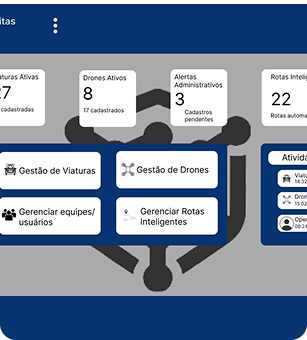
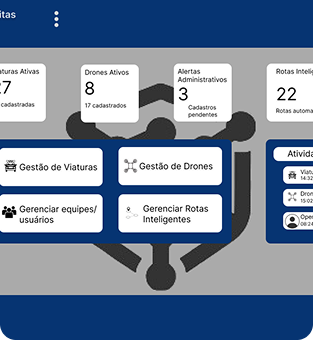
feat: atualiza estilos e semântica na seção Prototipo, incluindo melhorias visuais e ajustes de texto

diff --git a/style.css b/style.css
@@ -273,12 +273,25 @@ strong {
 
 .box-prototipo {
     background-color: var(--blue2);
-    border-radius: 8px;
+    border-radius: 16px;
+}
+ #strong-prototipo-subtitulo {
+    color: var(--white);
+ }
+
+.box-prototipo img {
+    border-top: 1px solid var(--blue6);
 }
 
 .titulo-box-prototipo {
     margin-top: 15px;
     font-weight: bold;
+    color: var(--blue6);
+
+}
+
+.texto-box-prototipo {
+    color: var(--blue5);
 }
 
 /* impacto */ 
@@ -355,7 +368,7 @@ strong {
     align-items: center;
     justify-content: center;
     padding: 0;
-    color: rgb(255, 255, 255);
+    color: var(--black);
 }
 
 .Blog article {
@@ -371,24 +384,16 @@ strong {
     text-align: center;
     width: 372px;
     height: 330px;
-    background-color: rgb(155, 201, 209);
-    font-size: 16px;
-    padding: 5px;
+    background-color: var(--blue1);
+    font-size: 20px;
+    padding: 20px;
     border-radius: 8px;
-    margin: 1rem;
+    margin-top: 0.5rem;
+    margin-bottom: 0.5rem;
 }
 
-#ver-blog {
-    display: flex;
-    flex-direction: column;
-    align-items: center;
-    margin-top: 40px;
-    gap: 10px;
-}
-
-#botao-ver-blog {
-    color: black;
-    border-color: black;
+.secao-blog strong {
+    color: var(--blue5);
 }
 
 .dynamic-blog-container {
@@ -404,6 +409,7 @@ strong {
 .posts-area {
     width: 100%;
     text-align: center;
+    color: var(--black);
 }
 
 .blog-grid {
@@ -416,7 +422,7 @@ strong {
 
 /* card do post */
 .post-card {
-    background-color: var(--dark6);
+    background-color: var(--blue1);
     padding: 15px;
     width: 300px;
     text-align: left;
@@ -424,19 +430,22 @@ strong {
     flex-direction: column;
     justify-content: space-between;
     border-radius: 0px; 
-    color: var(--white);
+    color: var(--black);
+    border: 1px solid;
+    border-radius: 8px;
+    border-color: var(--black);
 }
 
 .post-header h4 {
-    color: var(--cyan);
     font-size: 1.2rem;
     margin-bottom: 5px;
     font-weight: bold;
+    color: var(--blue5);
 }
 
 .post-date {
     font-size: 0.8rem;
-    color: #ccc;
+    color: var(--blue5);
     display: block;
     margin-bottom: 10px;
     padding-bottom: 5px;
@@ -445,17 +454,17 @@ strong {
 .post-author {
     font-size: 0.9rem;
     margin: 5px 0;
+    color: var(--blue4);
 }
 
 .post-content {
     font-size: 0.95rem;
     line-height: 1.3;
     margin-bottom: 15px;
-    color: #e0e0e0;
 }
 
 .btn-delete {
-    background-color: #a00;
+    background-color: var(--blue4);
     border: 1px solid white;
     color: white;
     padding: 5px 10px;
@@ -478,7 +487,7 @@ strong {
 .blog-form {
     display: flex;
     flex-direction: column;
-    gap: 10px;
+    gap: 0px;
     margin-top: 15px;
 }
 
@@ -488,18 +497,20 @@ strong {
     color: black; 
     padding: 8px;
     border-radius: 2px; 
+    border: 1px solid var(--black);
     font-family: sans-serif;
 }
 
 .blog-form button {
-    margin-top: 10px;
     width: 100%;
     background-color: var(--dark6);
-    color: white;
     padding: 10px;
     cursor: pointer;
     text-transform: uppercase;
-    font-weight: bold;
+    font-weight: normal;
+    color: var(--white);
+    background-color: var(--blue4);
+    text-transform: capitalize;
 }
 
 footer {

diff --git a/index.html b/index.html
@@ -78,7 +78,7 @@
 
         <section id="Prototipo" class="Prototipo">
             <h2>PROTÓTIPO DA SOLUÇÃO</h2>
-            <p>Veja como o <strong>Conecta Patrulha</strong> funciona na prática</p>
+            <p>Veja como o <strong id="strong-prototipo-subtitulo">Conecta Patrulha</strong> funciona na prática</p>
             <div id="container-prototipo">
                 <div class="box-prototipo">
                     <p class="titulo-box-prototipo">Operador</p>
@@ -101,7 +101,7 @@
         <section id="Blog" class="Blog">
             <h2>BLOG</h2>
 
-            <h4>Destaques</h4>
+            <h3>Destaques</h3>
 
             <article class="static-articles">
                 <div class="secao-blog">
@@ -129,9 +129,9 @@
                     <h3>Criar Novo Post</h3>
                     <form id="post-form" class="blog-form">
                         <input type="text" id="title" placeholder="Título " required>
-                        <textarea id="content" placeholder="Conteúdo..." rows="5" required></textarea>
+                        <textarea id="content" placeholder="Conteúdo" rows="5" required></textarea>
                         <input type="text" id="author" placeholder="Autor" required>
-                        <button type="submit" class="link-action-claro">Publicar</button>
+                        <button type="submit" class="link-action-escuro">Publicar</button>
                     </form>
                 </div>
 
